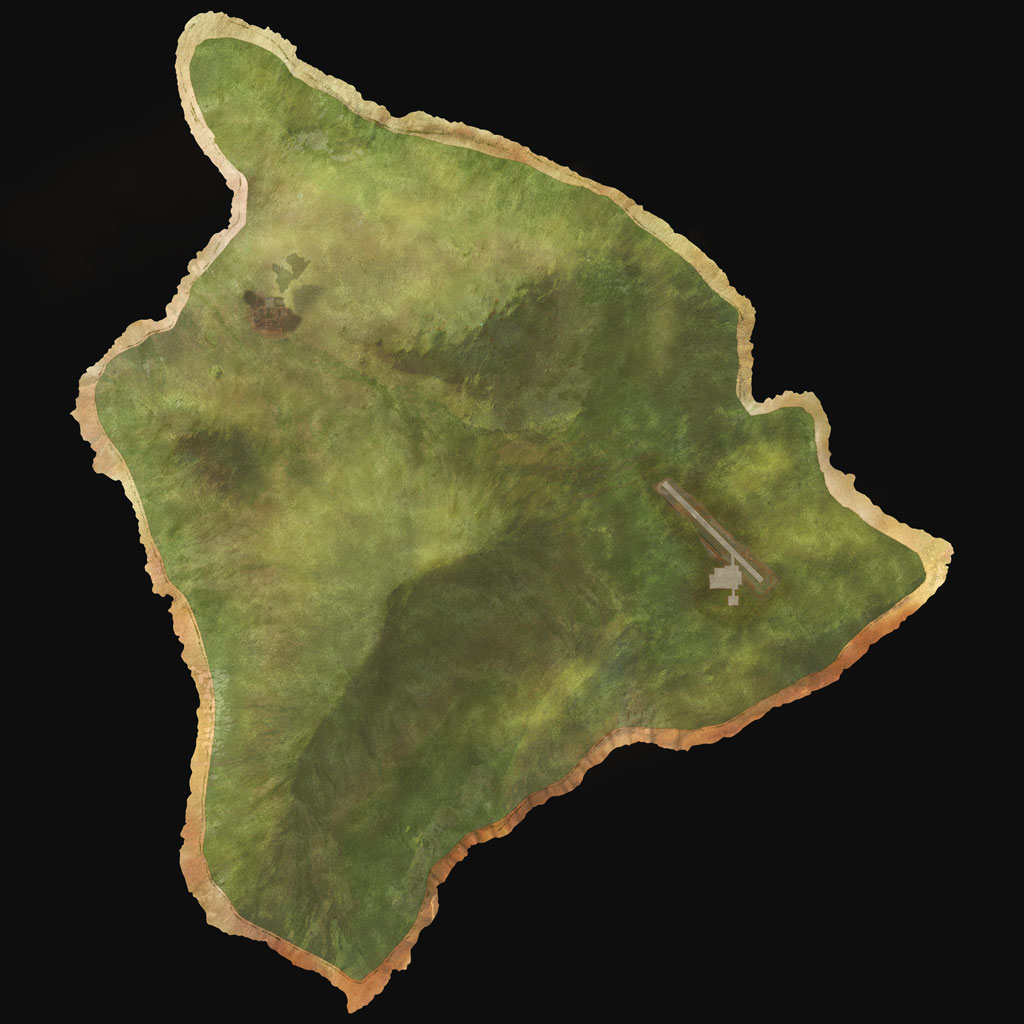
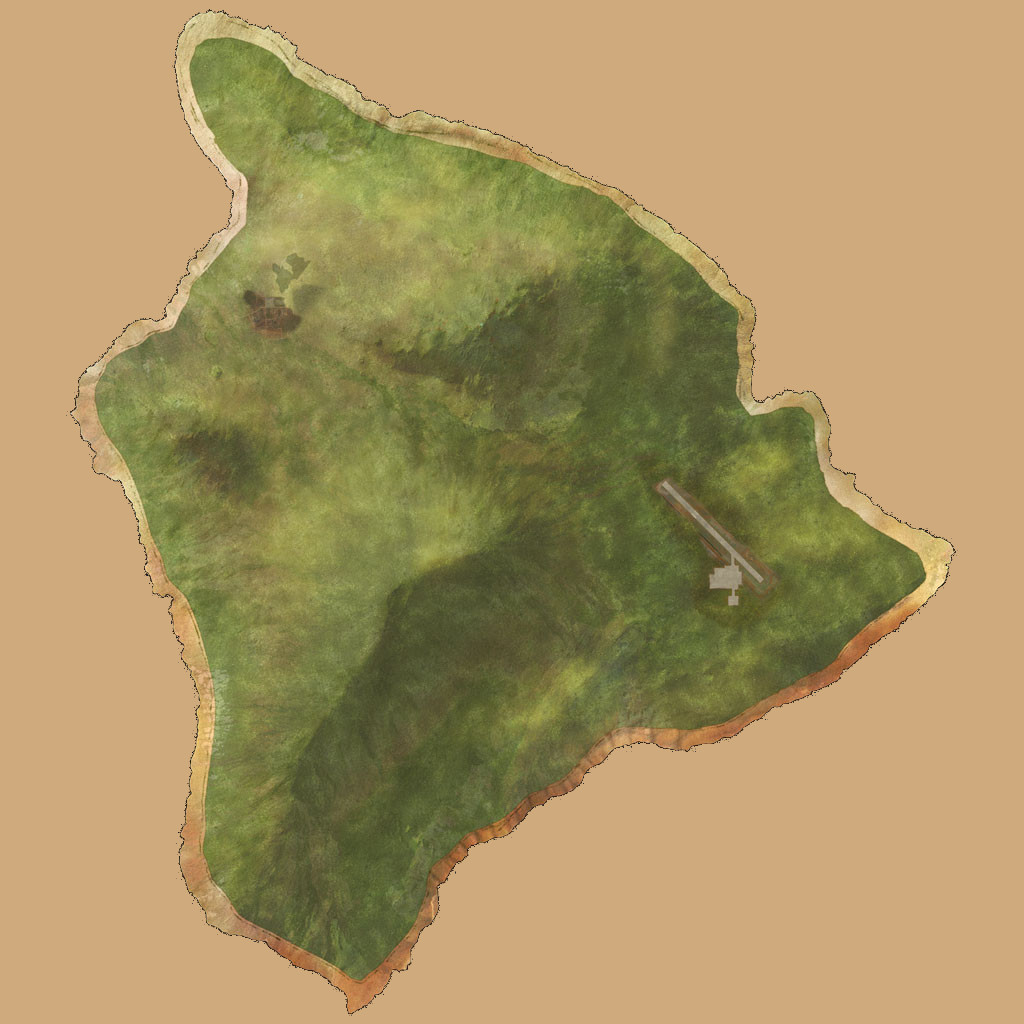
fixed illumination in terrain and water

diff --git a/primitives/surfaces/Terrain.js b/primitives/surfaces/Terrain.js
@@ -22,6 +22,10 @@ class Terrain extends CGFobject {
 
 		this.shader.setUniformsValues( {uSampler2: 1});
 
+		console.log(this.heightscale);
+
+		this.shader.setUniformsValues( {hScale: this.heightscale});
+
 	}
 
 	display() {
@@ -33,10 +37,6 @@ class Terrain extends CGFobject {
 		this.texture.bind(0);
 
 		this.scene.pushMatrix();
-
-		this.scene.scale(20, 1, 20);
-
-		this.scene.scale(20, 1, 20);
 
 		this.plane.display();
 

diff --git a/primitives/surfaces/Water.js b/primitives/surfaces/Water.js
@@ -31,7 +31,7 @@ class Water extends CGFobject {
 	}
 
 	update(timestamp){
-		this.timeInt += 0.00032;
+		this.timeInt += 0.00043;
 
 
 	  this.shader.setUniformsValues({factor:this.timeInt});
@@ -46,8 +46,6 @@ class Water extends CGFobject {
 		this.texture.bind(0);
 
 		this.scene.pushMatrix();
-
-		this.scene.scale(20, 1, 20);
 
 		this.plane.display();
 
